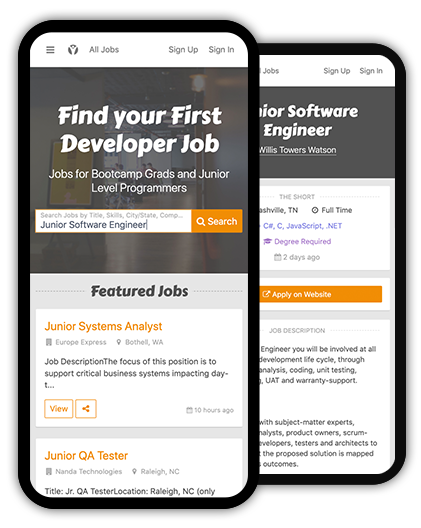
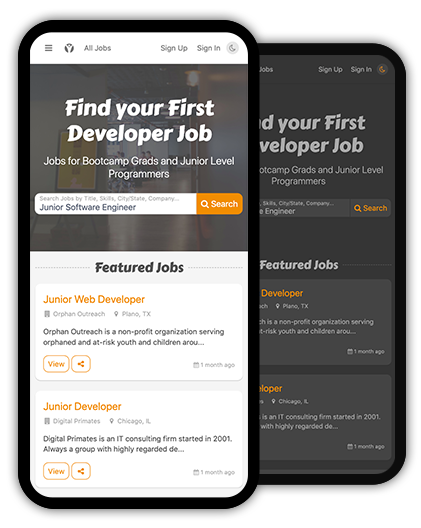
More junior dev jobs images

diff --git a/src/views/projects/JrDevJobs.vue b/src/views/projects/JrDevJobs.vue
@@ -51,7 +51,7 @@
           </div>
         </div>
         <div class="w-full md:w-1/2">
-          <img src="/images/projects/project-highlights-layered-jrdevjobs.png" class="mx-auto md:mx-0 md:my-5 relative">
+          <img src="/images/projects/project-highlights-search-jrdevjobs.png" class="mb-5 mx-auto md:mx-0 md:my-5 relative">
         </div>
       </div>
     </div>
